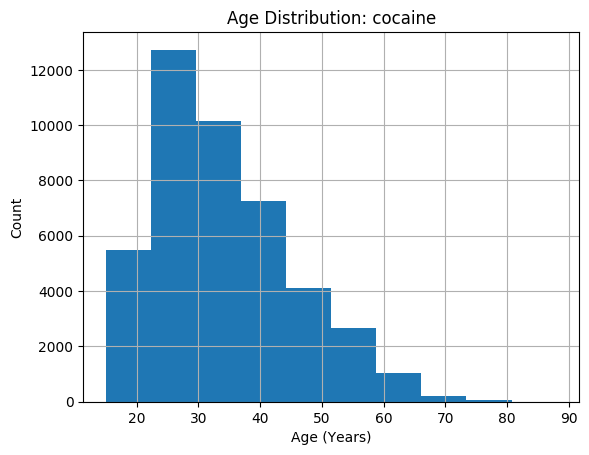
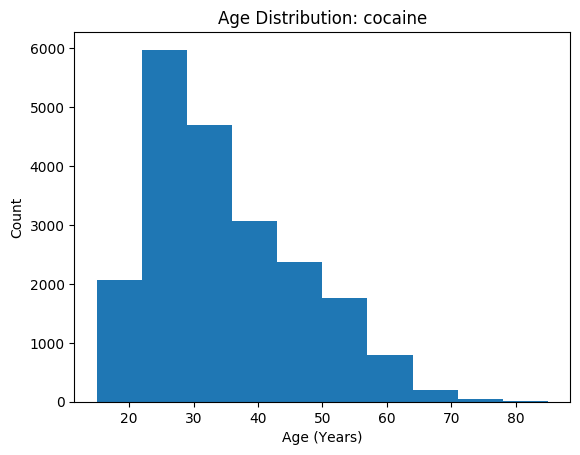
Update figures and restructure analysis

diff --git a/src/analysis/age.py b/src/analysis/age.py
@@ -1,0 +1,67 @@
+import matplotlib.pyplot as plt
+from analysis import save_figure
+
+
+def age_analysis(df, drug_name):
+    plot_age(df, drug_name)
+    plot_offenses_v_age(df, drug_name)
+    plot_age_v_avg_probation_length(df, drug_name)
+    plot_age_v_avg_min_sentence_length(df, drug_name)
+    plot_age_v_avg_max_sentence_length(df, drug_name)
+
+
+def plot_age(df, drug_name):
+    plt.figure()
+    ax = df[['Age', 'File_Number_Sequence']].drop_duplicates()['Age'].hist()
+    ax.set_title('Age Distribution: {0}'.format(drug_name))
+    ax.set_ylabel('Count')
+    ax.set_xlabel('Age (Years)')
+    ax.grid(False)
+    save_figure(drug_name, 'age_distribution')
+
+
+def plot_offenses_v_age(df, drug_name):
+    plt.figure()
+    ax = df.groupby(['File_Number_Sequence', 'Age']).size().reset_index().\
+        rename(columns={0: 'File_Charges'}).drop_duplicates().groupby(
+            'Age')['File_Charges'].mean().plot(style='.')
+    ax.set_title('Number of Charges by Age')
+    ax.set_xlabel('Age')
+    ax.set_ylabel('Average Number of Charges')
+    save_figure(drug_name, 'average_offense_count_by_age')
+
+
+def plot_age_v_avg_probation_length(df, drug_name):
+    independent = 'Age'
+    dependent = 'Probation_Length'
+    ax = df[[independent, dependent]].groupby(
+        independent)[dependent].mean().plot(style='.')
+    ax.set_title(
+        'Average Probation Length by Age: {0}'.format(drug_name))
+    ax.set_xlabel(independent)
+    ax.set_ylabel('Average Probation Length (Days)')
+    save_figure(drug_name, 'age_v_avg_probation_length')
+
+
+def plot_age_v_avg_min_sentence_length(df, drug_name):
+    independent = 'Age'
+    dependent = 'Minimum_Sentence_Length_in_Days'
+    ax = df[[independent, dependent]].groupby(
+        independent)[dependent].mean().plot(style='.')
+    ax.set_title(
+        'Average Minimum Sentence Length by Age: {0}'.format(drug_name))
+    ax.set_xlabel(independent)
+    ax.set_ylabel('Average Minimum Sentence Length (Days)')
+    save_figure(drug_name, 'age_v_avg_min_sentence_length')
+
+
+def plot_age_v_avg_max_sentence_length(df, drug_name):
+    independent = 'Age'
+    dependent = 'Maximum_Sentence_Length_in_Days'
+    ax = df[[independent, dependent]].groupby(
+        independent)[dependent].mean().plot(style='.')
+    ax.set_title(
+        'Average Maximum Sentence Length by Age: {0}'.format(drug_name))
+    ax.set_xlabel(independent)
+    ax.set_ylabel('Average Maximum Sentence Length (Days)')
+    save_figure(drug_name, 'age_v_avg_max_sentence_length')

diff --git a/src/analysis/race.py b/src/analysis/race.py
@@ -1,0 +1,44 @@
+import matplotlib.pyplot as plt
+import matplotlib
+from analysis import save_figure
+
+
+def race_analysis(df, drug_name):
+    plot_race(df, drug_name)
+    plot_race_v_min_sentence(df, drug_name)
+    plot_race_v_max_sentence(df, drug_name)
+
+
+def plot_race(df, drug_name):
+    plt.figure()
+    ax = df[['Defendant_Race', 'File_Number_Sequence']
+            ].drop_duplicates()['Defendant_Race'].value_counts().plot.bar()
+    ax.set_title('Charges by Race: {0}'.format(drug_name))
+    ax.set_ylabel('Count')
+    ax.get_yaxis().set_major_formatter(
+        matplotlib.ticker.FuncFormatter(lambda x, p: format(int(x), ',')))
+    save_figure(drug_name, 'race_distribution')
+
+
+def plot_race_v_min_sentence(df, drug_name):
+    ax = df[['Defendant_Race', 'Minimum_Sentence_Length_in_Days']
+            ].boxplot(grid=False, by='Defendant_Race')
+    ax.set_title('')
+    plt.xticks(rotation=90)
+    ax.get_figure().suptitle('')
+    ax.set_xlabel('Race')
+    ax.set_ylabel('Minimum Sentence Length (Days)')
+    plt.title("Minimum Sentence Length by Race: {0}".format(drug_name))
+    save_figure(drug_name, 'race_v_min_sentence')
+
+
+def plot_race_v_max_sentence(df, drug_name):
+    ax = df[['Defendant_Race', 'Maximum_Sentence_Length_in_Days']
+            ].boxplot(grid=False, by='Defendant_Race')
+    ax.set_title('')
+    plt.xticks(rotation=90)
+    ax.get_figure().suptitle('')
+    ax.set_xlabel('Race')
+    ax.set_ylabel('Maximum Sentence Length (Days)')
+    plt.title("Maximum Sentence Length by Race: {0}".format(drug_name))
+    save_figure(drug_name, 'race_v_max_sentence')

diff --git a/src/analysis/plea.py b/src/analysis/plea.py
@@ -1,0 +1,44 @@
+import matplotlib.pyplot as plt
+from analysis import save_figure
+
+
+def plea_analysis(df, drug_name):
+    plot_plea_v_probation(df, drug_name)
+    plot_plea_v_min_sentence(df, drug_name)
+    plot_plea_v_max_sentence(df, drug_name)
+
+
+def plot_plea_v_probation(df, drug_name):
+    ax = df[['Probation_in_Days', 'Plea_Code']
+            ].boxplot(grid=False, by='Plea_Code')
+    ax.set_title('')
+    plt.xticks(rotation=90)
+    ax.get_figure().suptitle('')
+    ax.set_xlabel('Plea Code')
+    ax.set_ylabel('Probation (Days)')
+    plt.title("Probation Length by Plea: {0}".format(drug_name))
+    save_figure(drug_name, 'plea_form_v_probation')
+
+
+def plot_plea_v_min_sentence(df, drug_name):
+    ax = df[['Minimum_Sentence_Length_in_Days', 'Plea_Code']
+            ].boxplot(grid=False, by='Plea_Code')
+    ax.set_title('')
+    plt.xticks(rotation=90)
+    ax.get_figure().suptitle('')
+    ax.set_xlabel('Plea Code')
+    ax.set_ylabel('Minimum Sentence Length (Days)')
+    plt.title("Minimum Sentence Length by Plea: {0}".format(drug_name))
+    save_figure(drug_name, 'plea_form_v_min_sentence')
+
+
+def plot_plea_v_max_sentence(df, drug_name):
+    ax = df[['Maximum_Sentence_Length_in_Days', 'Plea_Code']
+            ].boxplot(grid=False, by='Plea_Code')
+    ax.set_title('')
+    plt.xticks(rotation=90)
+    ax.get_figure().suptitle('')
+    ax.set_xlabel('Plea Code')
+    ax.set_ylabel('Maximum Sentence Length (Days)')
+    plt.title("Maximum Sentence Length by Plea: {0}".format(drug_name))
+    save_figure(drug_name, 'plea_form_v_max_sentence')

diff --git a/src/analysis/main.py b/src/analysis/main.py
@@ -1,0 +1,38 @@
+import pandas as pd
+import matplotlib.pyplot as plt
+import matplotlib
+import os
+from analysis import FIGURE_PATH, save_figure
+from analysis.age import age_analysis
+from analysis.attorney_type import attorney_type_analysis
+from analysis.county import county_analysis
+from analysis.gender import gender_analysis
+from analysis.plea import plea_analysis
+from analysis.race import race_analysis
+
+
+path = os.path.abspath(os.path.dirname(__file__))
+data_path = os.path.join(path, '/../../data')
+
+
+def create_figures(df, drug_name):
+    # One off analyses
+    plot_probation_length(df, drug_name)
+
+    # Run analyses
+    age_analysis(df, drug_name)
+    attorney_type_analysis(df, drug_name)
+    county_analysis(df, drug_name)
+    gender_analysis(df, drug_name)
+    plea_analysis(df, drug_name)
+    race_analysis(df, drug_name)
+
+
+def plot_probation_length(df, drug_name):
+    plt.figure()
+    ax = df['Probation_Length'].dropna().plot.hist()
+    ax.set_title('Probation Length Distribution: {0}'.format(drug_name))
+    ax.set_ylabel('Count')
+    ax.set_xlabel('Probation Length (Days)')
+    ax.grid(False)
+    save_figure(drug_name, 'probation_length')

diff --git a/src/analysis/attorney_type.py b/src/analysis/attorney_type.py
@@ -1,0 +1,18 @@
+import matplotlib.pyplot as plt
+from analysis import save_figure
+
+
+def attorney_type_analysis(df, drug_name):
+    plot_min_sentence_by_attorney_type(df, drug_name)
+
+
+def plot_min_sentence_by_attorney_type(df, drug_name):
+    ax = df[['District_Court_Attorney_Type', 'Minimum_Sentence_Length_in_Days']].boxplot(
+        grid=False, by='District_Court_Attorney_Type', showfliers=False)
+    ax.set_title(
+        'Minimum Sentence Outcomes by Attorney Type: {0}'.format(drug_name))
+    plt.xticks(rotation=90)
+    ax.get_figure().suptitle('')
+    ax.set_xlabel('Attorney Type (District Court)')
+    ax.set_ylabel('Minimum Sentence Length (Days)')
+    save_figure(drug_name, 'min_sentence_by_attorney_type')

diff --git a/src/analysis/__init__.py b/src/analysis/__init__.py
@@ -1,0 +1,16 @@
+import os
+import matplotlib.pyplot as plt
+
+
+path = os.path.abspath(os.path.dirname(__file__))
+data_path = os.path.join(path, '/../data')
+# DRUG_OUTPUT_FILES = {k: data_path + '/' +
+#                      k for k in ['marijuana', 'cocaine', 'heroin']}
+FIGURE_PATH = os.path.abspath(
+    os.path.dirname(__file__)) + '/../../figures'
+
+
+def save_figure(drug_name, filename):
+    plt.savefig(
+        FIGURE_PATH + '/{0}/{1}.png'.format(drug_name, filename), bbox_inches='tight', transparent=True)
+    plt.close()

diff --git a/src/analysis/gender.py b/src/analysis/gender.py
@@ -1,0 +1,6 @@
+import matplotlib.pyplot as plt
+from analysis import save_figure
+
+
+def gender_analysis(df, drug_name):
+    pass

diff --git a/src/analysis/county.py b/src/analysis/county.py
@@ -1,0 +1,5 @@
+from analysis import save_figure
+
+
+def county_analysis(df, drug_name):
+    pass
